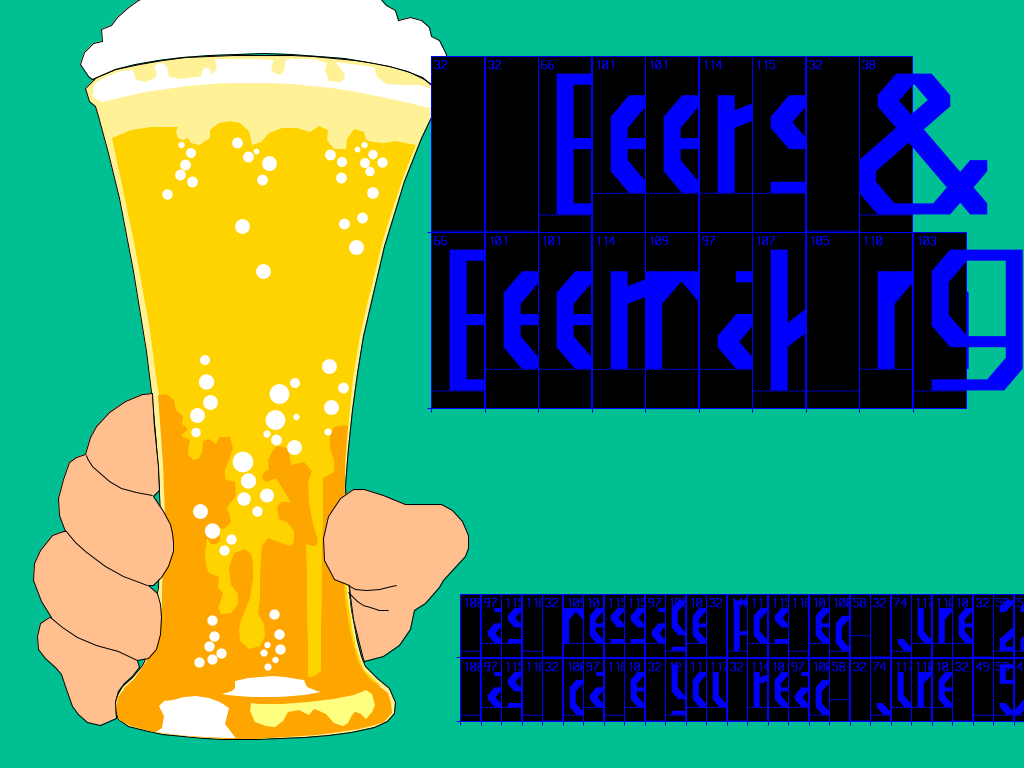
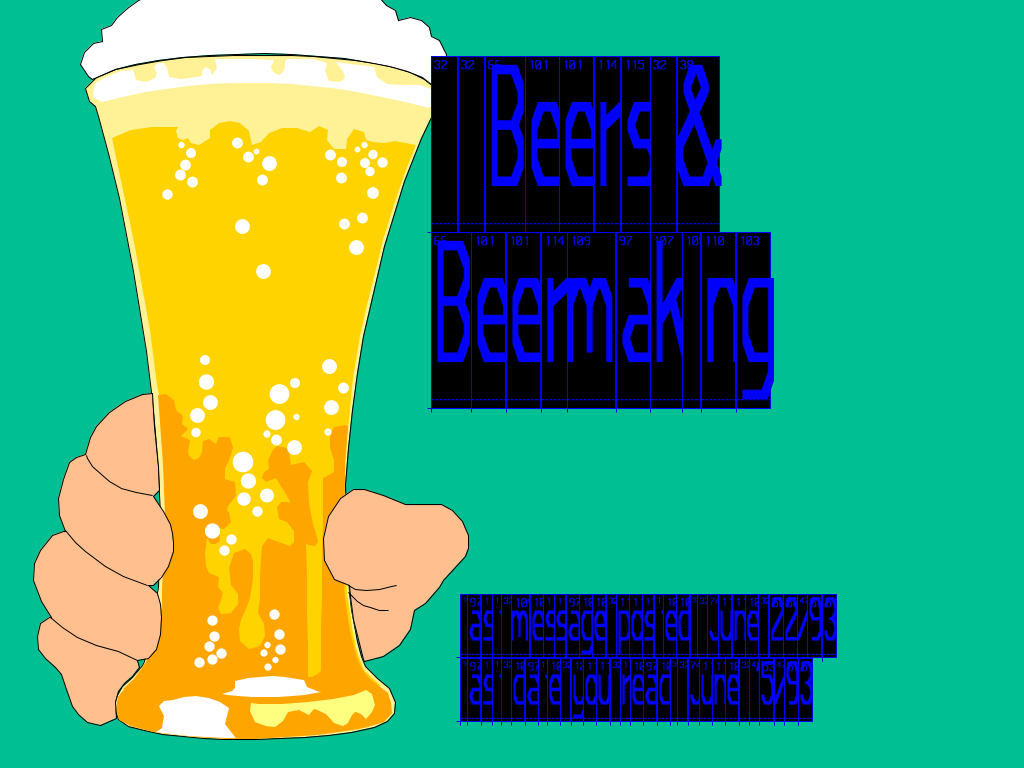
Best Text Rendering So far

Changed region(s): [[0.4062, 0.0625, 1.0, 0.5312], [0.4375, 0.75, 1.0, 0.9375]]

diff --git a/NAPLPS/Drawing/DrawableAsciiChar.cs b/NAPLPS/Drawing/DrawableAsciiChar.cs
@@ -19,6 +19,120 @@ public class DrawableAsciiChar : Drawable, IDrawable
     private static readonly float _refTopOffset;
     private static readonly float _refCharWidth;
 
+    // Width ratios for proportional spacing - conservative values to avoid squishing
+    // Range: 0.6 (narrow) to 1.0 (wide) - don't go below 0.6 or glyphs get too thin
+    private static readonly Dictionary<char, float> _charWidthRatios = new()
+    {
+        // Punctuation - narrow but not too narrow
+        [' '] = 0.70f,
+        ['!'] = 0.60f,
+        ['"'] = 0.75f,
+        ['#'] = 0.90f,
+        ['$'] = 0.85f,
+        ['%'] = 1.00f,
+        ['&'] = 0.90f,
+        ['\''] = 0.60f,
+        ['('] = 0.65f,
+        [')'] = 0.65f,
+        ['*'] = 0.75f,
+        ['+'] = 0.80f,
+        [','] = 0.60f,
+        ['-'] = 0.70f,
+        ['.'] = 0.60f,
+        ['/'] = 0.70f,
+
+        // Numbers - uniform width
+        ['0'] = 0.85f,
+        ['1'] = 0.70f,
+        ['2'] = 0.85f,
+        ['3'] = 0.85f,
+        ['4'] = 0.85f,
+        ['5'] = 0.85f,
+        ['6'] = 0.85f,
+        ['7'] = 0.85f,
+        ['8'] = 0.85f,
+        ['9'] = 0.85f,
+
+        // More punctuation
+        [':'] = 0.60f,
+        [';'] = 0.60f,
+        ['<'] = 0.75f,
+        ['='] = 0.80f,
+        ['>'] = 0.75f,
+        ['?'] = 0.75f,
+        ['@'] = 1.00f,
+
+        // Uppercase letters
+        ['A'] = 0.90f,
+        ['B'] = 0.85f,
+        ['C'] = 0.85f,
+        ['D'] = 0.90f,
+        ['E'] = 0.80f,
+        ['F'] = 0.80f,
+        ['G'] = 0.90f,
+        ['H'] = 0.90f,
+        ['I'] = 0.60f,
+        ['J'] = 0.75f,
+        ['K'] = 0.85f,
+        ['L'] = 0.80f,
+        ['M'] = 1.00f,
+        ['N'] = 0.90f,
+        ['O'] = 0.95f,
+        ['P'] = 0.85f,
+        ['Q'] = 0.95f,
+        ['R'] = 0.85f,
+        ['S'] = 0.85f,
+        ['T'] = 0.85f,
+        ['U'] = 0.90f,
+        ['V'] = 0.90f,
+        ['W'] = 1.00f,
+        ['X'] = 0.85f,
+        ['Y'] = 0.85f,
+        ['Z'] = 0.85f,
+
+        // Brackets and symbols
+        ['['] = 0.65f,
+        ['\\'] = 0.70f,
+        [']'] = 0.65f,
+        ['^'] = 0.75f,
+        ['_'] = 0.85f,
+        ['`'] = 0.60f,
+
+        // Lowercase letters
+        ['a'] = 0.80f,
+        ['b'] = 0.80f,
+        ['c'] = 0.75f,
+        ['d'] = 0.80f,
+        ['e'] = 0.80f,
+        ['f'] = 0.65f,
+        ['g'] = 0.80f,
+        ['h'] = 0.80f,
+        ['i'] = 0.60f,
+        ['j'] = 0.60f,
+        ['k'] = 0.75f,
+        ['l'] = 0.60f,
+        ['m'] = 1.00f,
+        ['n'] = 0.80f,
+        ['o'] = 0.80f,
+        ['p'] = 0.80f,
+        ['q'] = 0.80f,
+        ['r'] = 0.70f,
+        ['s'] = 0.75f,
+        ['t'] = 0.65f,
+        ['u'] = 0.80f,
+        ['v'] = 0.75f,
+        ['w'] = 1.00f,
+        ['x'] = 0.75f,
+        ['y'] = 0.75f,
+        ['z'] = 0.75f,
+
+        // More symbols
+        ['{'] = 0.70f,
+        ['|'] = 0.60f,
+        ['}'] = 0.70f,
+        ['~'] = 0.80f,
+    };
+
     static DrawableAsciiChar()
     {
         var assembly = typeof(DrawableAsciiChar).Assembly;
@@ -43,6 +157,20 @@ public class DrawableAsciiChar : Drawable, IDrawable
         _refCharWidth = refWidthBounds.Width;
     }
 
+    /// <summary>
+    /// Gets the width ratio of a character relative to full cell width.
+    /// Used for proportional text spacing.
+    /// </summary>
+    public static float GetCharWidthRatio(char c)
+    {
+        if (_charWidthRatios.TryGetValue(c, out float ratio))
+        {
+            return ratio;
+        }
+        // Fallback to average width for unknown characters
+        return 0.70f;
+    }
+
     public DrawableAsciiChar(AsciiCharCommand command) : base(command)
     {
         _command = command;
@@ -56,7 +184,11 @@ public class DrawableAsciiChar : Drawable, IDrawable
         // Convert character cell size (normalized) to screen pixels
         var (charSizeX, charSizeY) = ConvertNormalizedToScreenScale(size, state.CharSize.X, state.CharSize.Y);
 
-        float cellW = MathF.Max(1f, MathF.Abs(charSizeX));
+        // Get proportional width for this character
+        float widthRatio = GetCharWidthRatio(_command.AsciiCharacter);
+
+        // Apply proportional width to cell
+        float cellW = MathF.Max(1f, MathF.Abs(charSizeX) * widthRatio);
         float cellH = MathF.Max(1f, MathF.Abs(charSizeY));
 
         // Cell top-left in screen coords (Y-down)
@@ -106,7 +238,6 @@ public class DrawableAsciiChar : Drawable, IDrawable
         image.Mutate(ctx =>
         {
             ctx.Fill(new DrawingOptions(), bgColor, rect);
-            ctx.Draw(Pens.Solid(bgColor, 1f), rect);
 
             if (Options.DebugTextDrawing)
             {

diff --git a/NAPLPS/Commands/AsciiCharCommand.cs b/NAPLPS/Commands/AsciiCharCommand.cs
@@ -1,5 +1,7 @@
 // Copyright (c) 2025 FoxCouncil & Contributors - https://github.com/FoxCouncil/NAPLPS
 
+using NAPLPS.Drawing;
+
 namespace NAPLPS.Commands;
 
 public class AsciiCharCommand : NaplpsCommand
@@ -13,11 +15,11 @@ public class AsciiCharCommand : NaplpsCommand
         MovePen(state);
     }
 
-    private static void MovePen(NaplpsState state)
+    private void MovePen(NaplpsState state)
     {
         var pen = state.Pen;
 
-        float multiplier = state.TextSpacing switch
+        float spacingMultiplier = state.TextSpacing switch
         {
             TextSpacing.One => 1.0f,
             TextSpacing.FiveQuarters => 1.25f,
@@ -26,19 +28,22 @@ public class AsciiCharCommand : NaplpsCommand
             _ => 1.0f
         };
 
+        // Get proportional width ratio for this character
+        float widthRatio = DrawableAsciiChar.GetCharWidthRatio(AsciiCharacter);
+
         switch (state.TextPath)
         {
             case TextPath.Right:
-                pen.X += state.CharSize.X * multiplier;
+                pen.X += state.CharSize.X * widthRatio * spacingMultiplier;
                 break;
             case TextPath.Left:
-                pen.X -= state.CharSize.X * multiplier;
+                pen.X -= state.CharSize.X * widthRatio * spacingMultiplier;
                 break;
             case TextPath.Up:
-                pen.Y += state.CharSize.Y * multiplier;
+                pen.Y += state.CharSize.Y * spacingMultiplier;
                 break;
             case TextPath.Down:
-                pen.Y -= state.CharSize.Y * multiplier;
+                pen.Y -= state.CharSize.Y * spacingMultiplier;
                 break;
         }
 